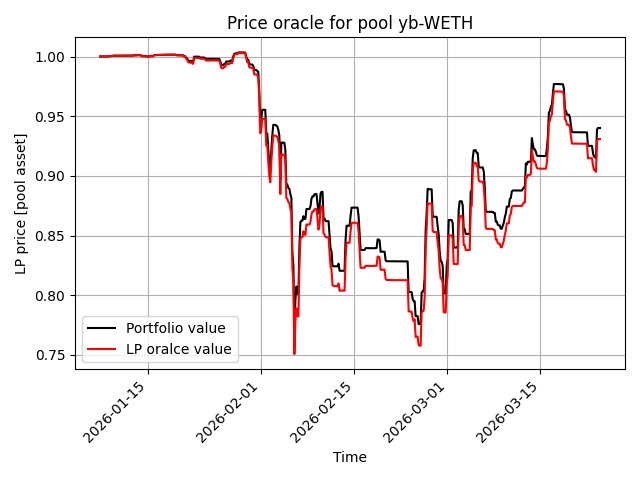
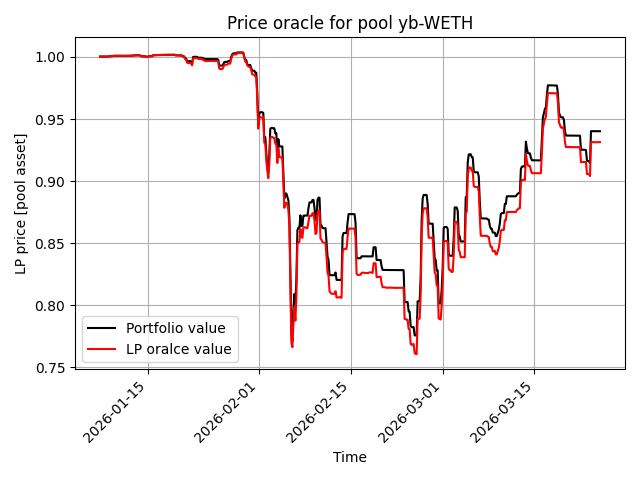
Include agg

diff --git a/scripts/yb_precise_oracle.py b/scripts/yb_precise_oracle.py
@@ -15,11 +15,11 @@ FACTORY = "0x370a449FeBb9411c95bf897021377fe0B7D100c0"
 
 N_POINTS = 500
 
-# START_BLOCK = 23784145 + 100
-# POOL_ID = 4
+START_BLOCK = 23784145 + 100
+POOL_ID = 4
 
-START_BLOCK = 24183683 + 500
-POOL_ID = 6
+# START_BLOCK = 24183683 + 500
+# POOL_ID = 6
 
 
 class FXSwapLPOracleSim:
@@ -159,6 +159,7 @@ def main():
     market = factory.markets(POOL_ID)
     amm = Contract(market[2])
     lt = Contract(market[3])
+    agg = Contract(lt.agg())
     cryptopool = Contract(amm.COLLATERAL())
 
     current_block = web3.eth.block_number
@@ -180,6 +181,7 @@ def main():
             yb_state = amm.get_state()
             liquidity = lt.liquidity()
             supply = lt.totalSupply()
+            agg_price = agg.price()
 
         ps_lp_price /= 1e18
         value_oracle = value_oracle[1] / 1e18
@@ -189,6 +191,8 @@ def main():
         x0 /= 1e18
         collateral /= 1e18
         debt /= 1e18
+
+        agg_price /= 1e18
 
         admin, total, ideal_staked, staked = liquidity
         f_lp = total / (admin + total)
@@ -201,7 +205,7 @@ def main():
 
         L = 2
         yb_oracle_value = x0 * (2 * L / (2*L - 1) * (lp_price_oracle / ps_lp_price)**0.5 - 1)
-        yb_oracle_value *= f_lp / supply / lp_oracle._price_oracle
+        yb_oracle_value *= f_lp / supply / (lp_oracle._price_oracle * agg_price)
 
         oracle_values.append(yb_oracle_value)
 
